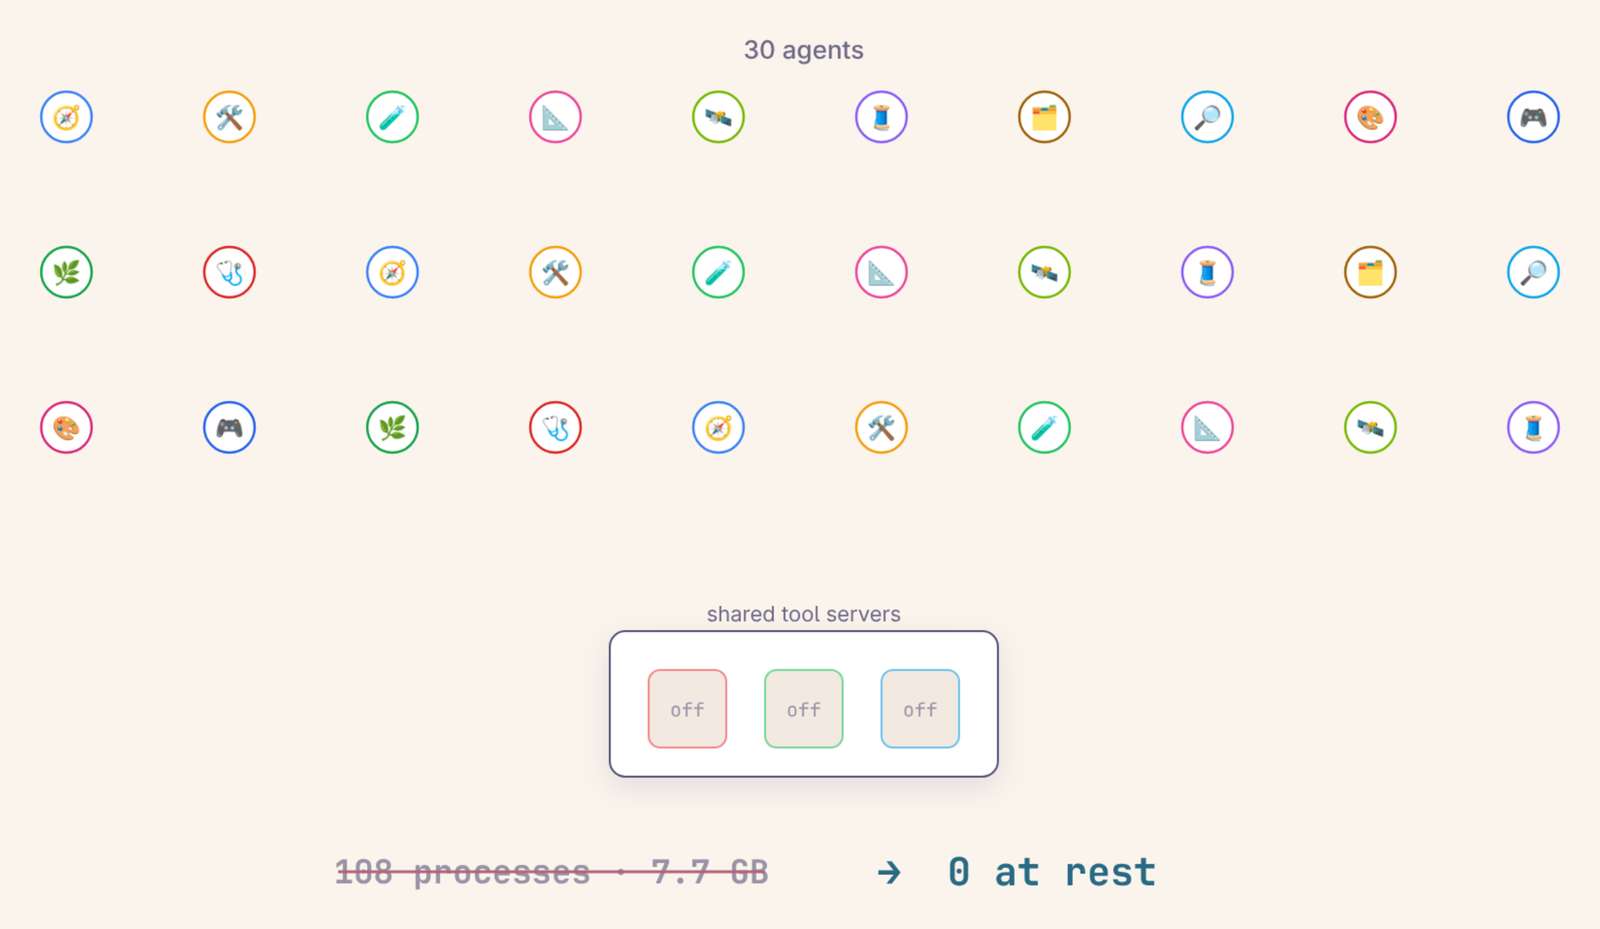
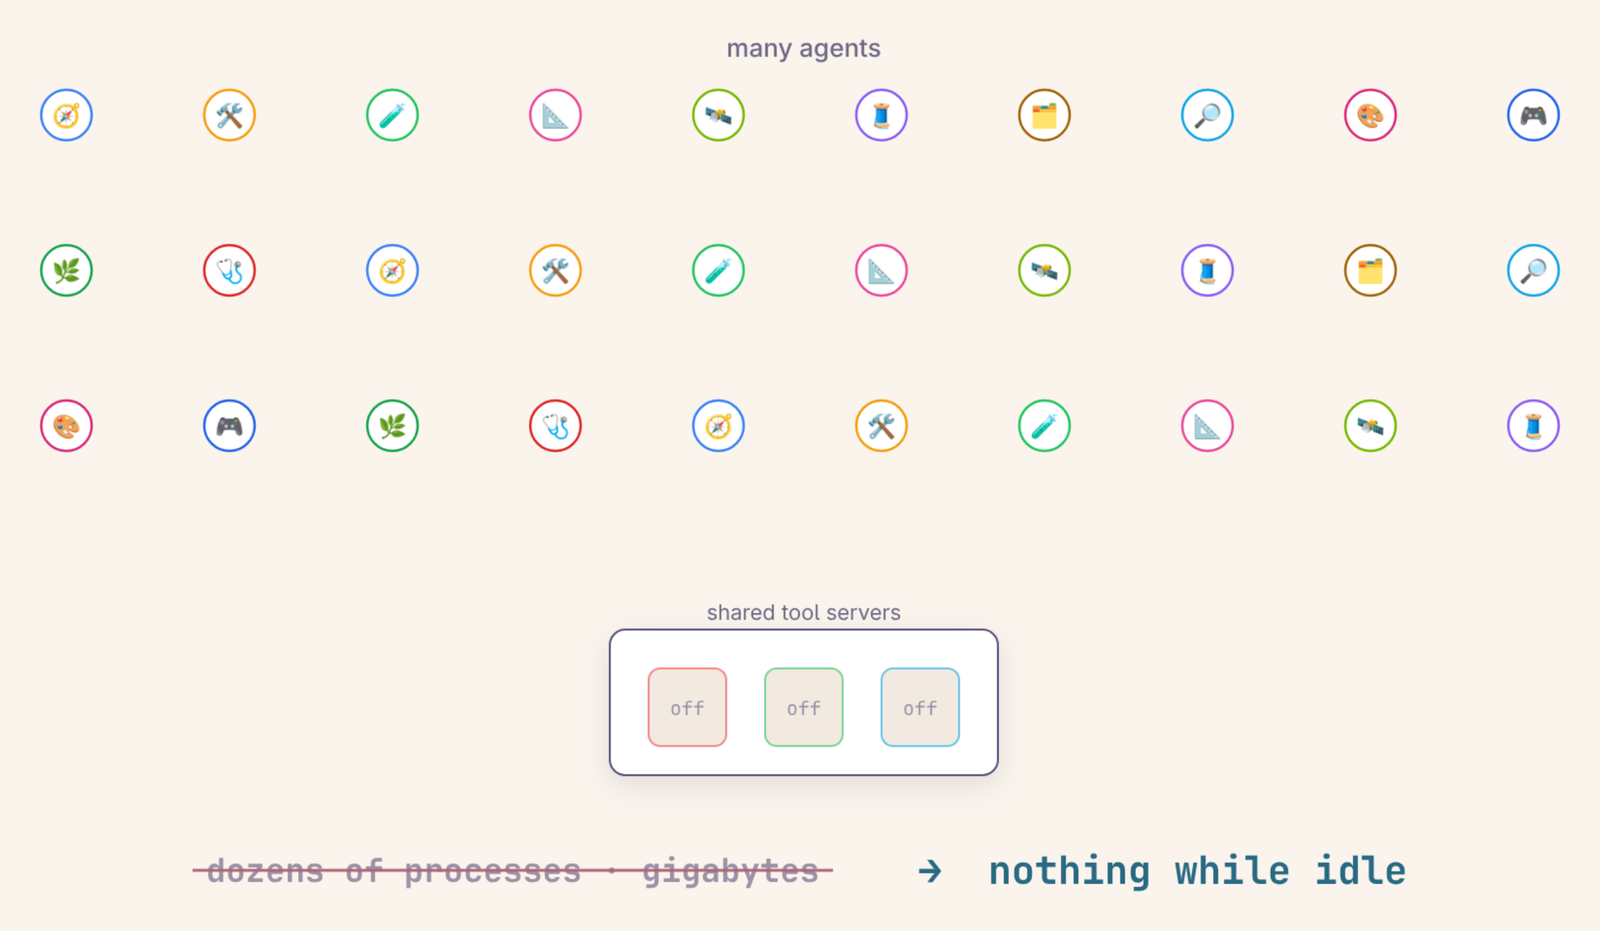
J254 (Angus: 'choice 3'): no exact MCP gateway figures in the README: the measured-numbers sentence becomes general ('dozens of MCP server processes using gigabytes of memory and nothing at all while idle'); gateway.png re-rendered by Reel with 'many agents' and 'dozens of processes · gigabytes → no

diff --git a/README.md b/README.md
@@ -130,7 +130,7 @@ Details, the API and the upload limits: [remote-control/README.md](remote-contro
 
 ![The MCP gateway: many agents share one set of tool servers, started only when used](docs/img/gateway.png)
 
-The MCP gateway keeps one shared, lazily started copy of each stdio MCP server for all your pi agents. pi starts every enabled MCP server once per agent process, so with many parallel agents the idle server processes and their memory add up quickly. With the gateway a server runs only while it is being used, so at rest no server processes are running. Measured on the machine hyprpi is developed on: about 30 parallel agents, each starting its own servers, meant 108 server processes and 7.7 GB; with the gateway that is 0 server processes at rest, and the gateway itself uses about 76 MB. It is plain Node with no hyprpi dependency, so it also works with any other pi setup.
+The MCP gateway keeps one shared, lazily started copy of each stdio MCP server for all your pi agents. pi starts every enabled MCP server once per agent process, so with many parallel agents the idle server processes and their memory add up quickly. With the gateway a server runs only while it is being used, so at rest no server processes are running. With a few dozen agents that is the difference between dozens of MCP server processes using gigabytes of memory and nothing at all while idle. It is plain Node with no hyprpi dependency, so it also works with any other pi setup.
 
 ### What you can do
 
